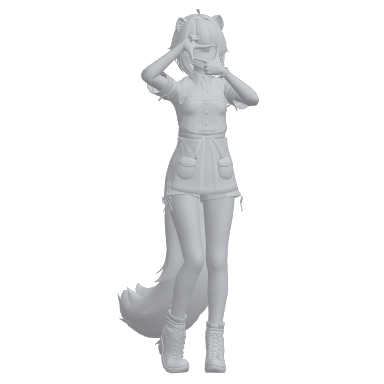
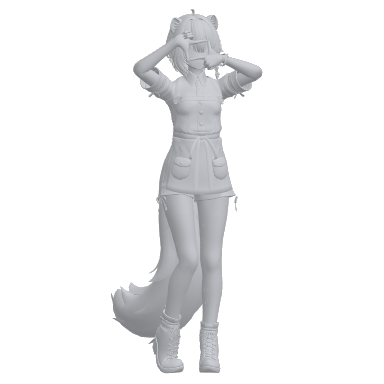
KTBPoses 2.1.3：指カメラを長方形の枠に
- 指カメラの画像を作り直し（L を直角にして、両手の指先を合わせた長方形の枠）
- 更新履歴と同梱のポーズの説明を、長方形の枠に合わせて修正

Changed region(s): [[0.2812, 0.0, 0.6875, 0.9688]]

diff --git a/docs/changelog.md b/docs/changelog.md
@@ -5,7 +5,7 @@
 同梱のポーズを 6 つ直しました（[同梱のポーズ](poses.md)）。
 
 - ひざに手：前かがみをゆるめ（体の傾きを 49° から 36° に）、ひざを曲げて、手がひざに乗るようにしました
-- 指カメラ：両手の L の指先どうしが合わさって、閉じた枠になるようにしました
+- 指カメラ：両手の L を直角にして指先どうしを合わせ、長方形の枠になるようにしました（両ひじを上げて構えます）
 - 頬杖・口元に手・あごピース・考え中：ひじを支える側の腕が体の前に浮かず、ひじが脇腹のあたりに来るようにしました
 
 アニメーションは、更新するだけで新しくなります。アップロードし直してください。メニューのアイコンも新しくするには、導入済みのアバターで [導入し直す](install-avatar.md#reinstall) を押してからアップロードしてください。[同梱ポーズを体型に合わせ直して](library.md#refit) いた場合は、もう一度合わせ直してください。
